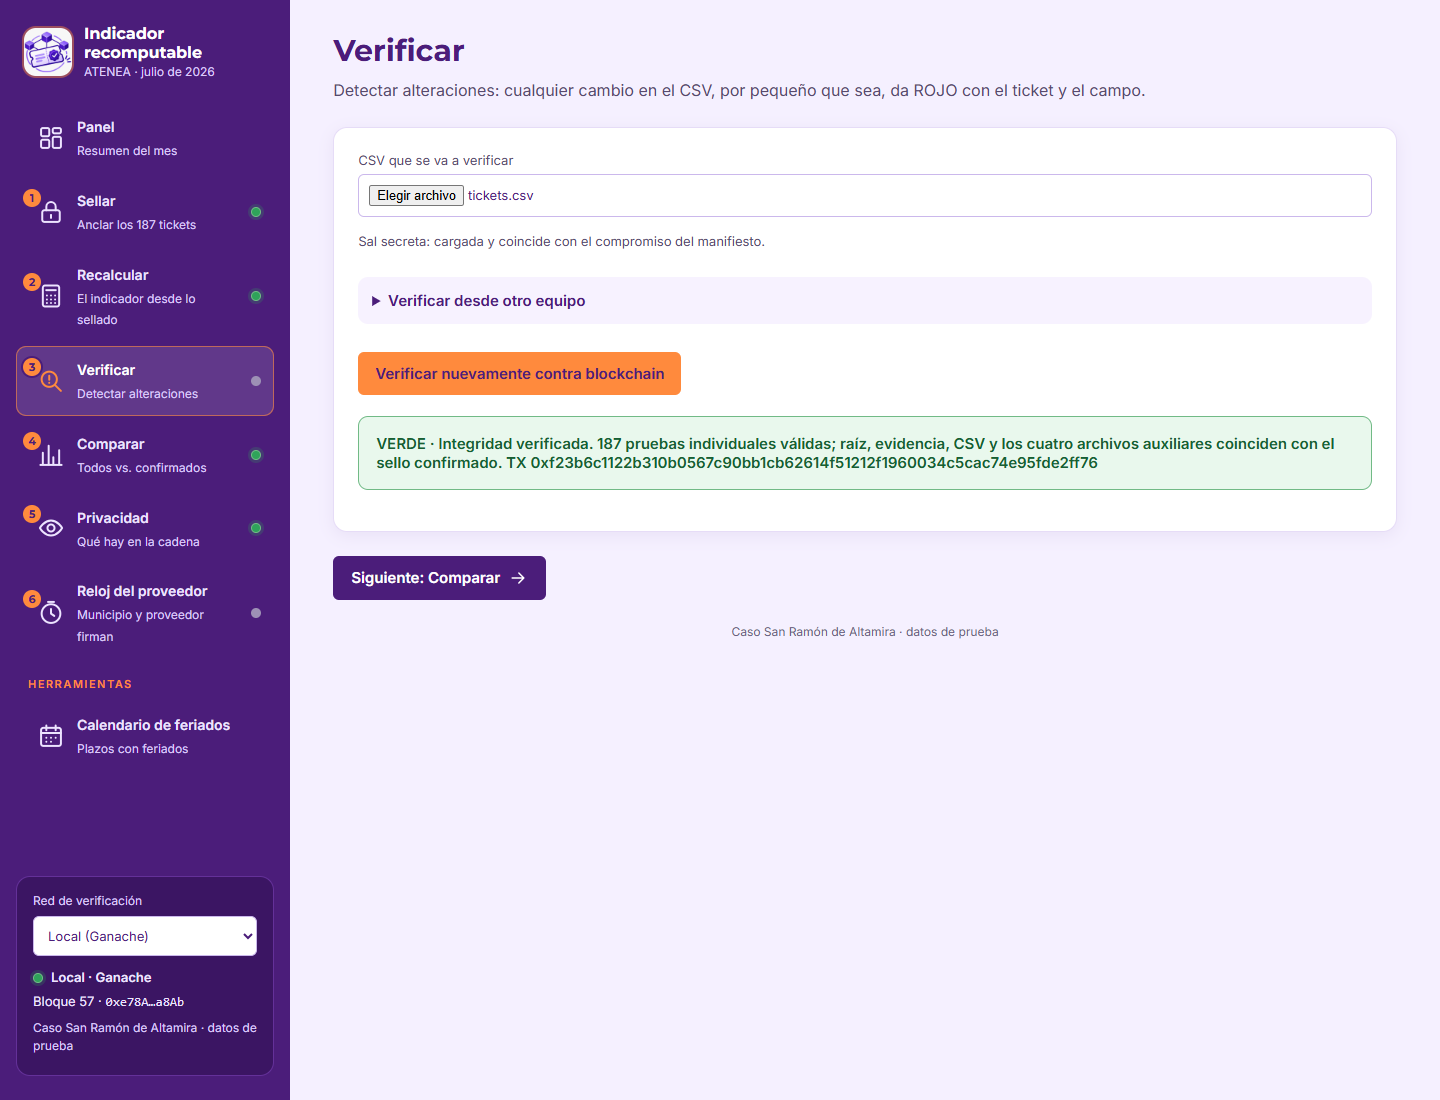
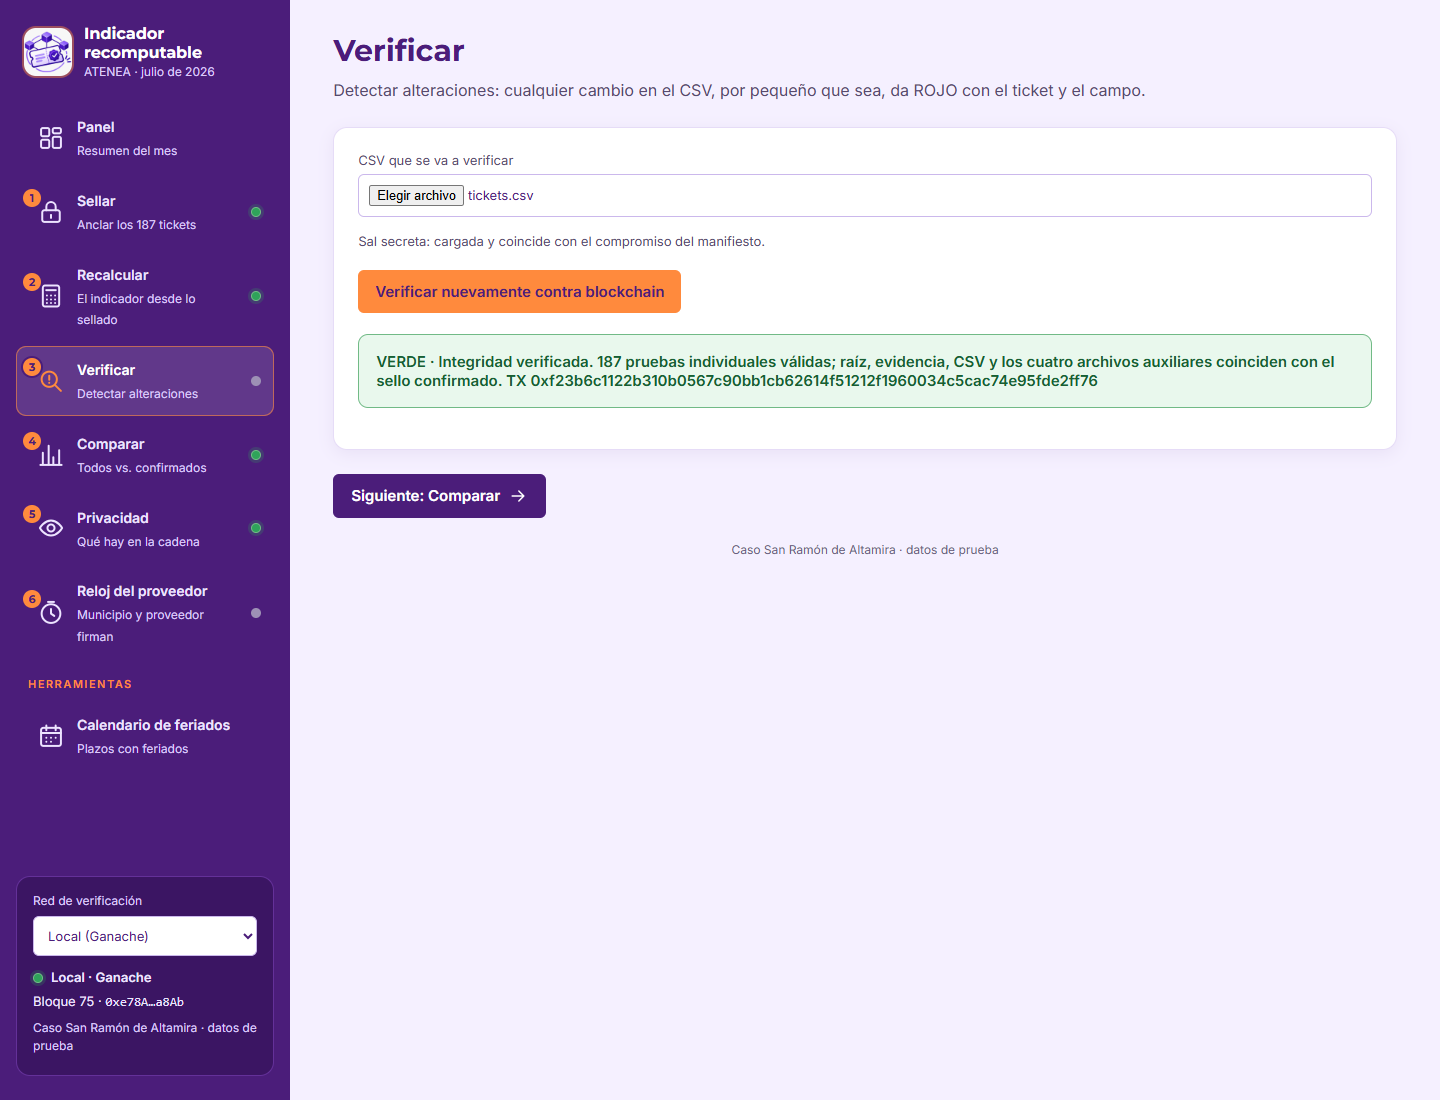
Fase 10: ajustes del profesor (Verificar sin importación y ancho en pantallas grandes)
- Verificar: se elimina «Verificar desde otro equipo» (importar evidencia y sal) y sus
  manejadores en app.mjs. Los mensajes de sal faltante indican copiar la carpeta .secreto/.
- README: sección «Verificar en otro equipo» (clonar el repo, copiar .secreto/ a mano,
  npm.cmd start). DEMO.md: contingencia actualizada.
- style.css: main centrado en su columna (margin-inline: auto) y max-width de 1240 a 1440 px.
  A 2560 px quedan márgenes iguales a ambos lados; en móvil (390 px) no hay scroll horizontal.
- audit.mjs y las pruebas no dependían de esa sección: sin cambios.
- npm test 62/62; verify:source 11/11; auditoría: Nivel 1 5/5, Nivel 2 APROBADO, Sepolia real APROBADO.

diff --git a/src/index.html b/src/index.html
@@ -117,7 +117,7 @@
     <div id="sealLinks" class="seal-links"></div>
     <button id="downloadSalt" type="button" class="secondary" hidden>Descargar sal secreta (respaldo)</button>
     <details><summary>Respaldo del sello</summary>
-      <p class="small">Copia del manifiesto con la huella de los 187 tickets. La app ya la guarda sola en este equipo; solo hace falta para verificar desde otro equipo.</p>
+      <p class="small">Copia del manifiesto con la huella de los 187 tickets. La app ya la guarda sola en evidencias/; es una copia de respaldo.</p>
       <button id="export" class="secondary" disabled>Descargar respaldo del sellado</button>
     </details>
     <details class="admin"><summary>Administración</summary>
@@ -162,10 +162,6 @@
   <div class="card">
     <div class="inputs"><label>CSV que se va a verificar<input id="verifyFile" type="file" accept=".csv"></label></div>
     <p id="saltStatus" class="small">Sal secreta: pendiente.</p>
-    <details><summary>Verificar desde otro equipo</summary>
-      <p class="small">En el equipo donde se selló, la evidencia y la sal se cargan solas. En otro equipo o navegador, impórtalas aquí.</p>
-      <div class="inputs"><label>Importar evidencia original (respaldo del sellado)<input id="evidenceFile" type="file" accept=".json"></label><label>Importar la sal secreta del sello<input id="saltFile" type="file" accept=".json,.txt"></label></div>
-    </details>
     <button id="verify">Verificar nuevamente contra blockchain</button>
     <div class="slot" data-slot="verification"></div>
     <div id="changes" aria-live="polite"></div>

diff --git a/src/style.css b/src/style.css
@@ -102,8 +102,10 @@ body { margin: 0; min-width: 0; }
 main {
   min-width: 0;
   padding: var(--space-6) clamp(var(--space-4), 3vw, 48px);
-  max-width: 1240px;
+  /* En monitores anchos el contenido se centra en su columna en vez de quedar pegado al menú. */
+  max-width: 1440px;
   width: 100%;
+  margin-inline: auto;
 }
 
 .topbar, .backdrop, .brand .close { display: none; }

diff --git a/README.md b/README.md
@@ -116,13 +116,15 @@ Opcional: con `SEPOLIA_MUNICIPIO=0x…` en el entorno del servidor, solo esa cue
 
 **Render y Sepolia:** en Render el disco no es persistente. Si se sella Sepolia desde Render, la sal (`.secreto/`) y la configuración se pierden al reiniciar el servicio: el sello sigue en Sepolia, pero ya nadie podría comprobar los tickets sin la sal. Por eso, para Sepolia, usar la app en la propia computadora y descargar siempre el respaldo de la sal.
 
+**Verificar en otro equipo:** clonar el repositorio (trae `evidencias/red-sepolia.json` y `evidencias/sello-sepolia.json`) y copiar desde el equipo que selló la carpeta **`.secreto/`** completa, con el archivo `sal-sepolia-<dirección del contrato>.json`, a la raíz del proyecto. Luego `npm.cmd ci` y `npm.cmd start`: el servidor entrega la sal a su propia página y Verificar da VERDE leyendo Sepolia por RPC público, sin MetaMask. Sin esa carpeta, la verificación queda INCOMPLETA a propósito. La carpeta se copia a mano (USB, carpeta compartida): no se sube a git ni a ningún servicio público.
+
 Sin internet, todo funciona igual en la red local. El reloj del proveedor usa siempre la red local.
 
 ## Delimitación
 
 - **En cadena**, solo el indicador público: quien emite el número es el mismo que se mide con él. Van período, raíz Merkle, compromiso, cantidad, fecha y hash de reglas.
 - **Fuera de cadena**: asignaciones, escalamientos, la bitácora y el contenido de los tickets. La operación interna se resuelve mejor con logs firmados. La bitácora y las reaperturas entran al sello solo por su SHA-256.
-- **Sal secreta del manifiesto**: `evidencias/sello-original.json` es público y guarda un hash por ticket y por campo. Sin sal, bastaría una lista de nombres para saber quién reportó cada ticket. Por eso cada sello usa una sal aleatoria de 32 bytes: entra en cada hash junto con el ID del ticket, y el manifiesto solo lleva su compromiso (`saltCommitment`). La sal nunca va en `evidencias/` ni en la cadena. En la red local vive en `.instances/<instancia>/secreto/sal-202607.json`; en Sepolia, en `.secreto/sal-sepolia-<dirección del contrato>.json`, un archivo por contrato. Las dos rutas están en `.gitignore`. Quien verifica necesita la sal: el servidor local se la entrega a su propia página, o se importa en la vista Verificar.
+- **Sal secreta del manifiesto**: `evidencias/sello-original.json` es público y guarda un hash por ticket y por campo. Sin sal, bastaría una lista de nombres para saber quién reportó cada ticket. Por eso cada sello usa una sal aleatoria de 32 bytes: entra en cada hash junto con el ID del ticket, y el manifiesto solo lleva su compromiso (`saltCommitment`). La sal nunca va en `evidencias/` ni en la cadena. En la red local vive en `.instances/<instancia>/secreto/sal-202607.json`; en Sepolia, en `.secreto/sal-sepolia-<dirección del contrato>.json`, un archivo por contrato. Las dos rutas están en `.gitignore`. Quien verifica necesita la sal: el servidor local se la entrega a su propia página.
 - **Reloj del proveedor (Nivel 2), implementado**: la segunda frontera de confianza. Dos organizaciones, un contrato y penalidades en dólares; cada parte firma con su llave.
 - **Lo que la cadena no hace**: no prueba que los datos fueran verdaderos antes de sellarlos ni mejora los tiempos de respuesta. En el reloj, registra lo que cada parte firma y rechaza lo imposible, pero no sabe si la hora firmada es la real.
 

diff --git a/docs/DEMO.md b/docs/DEMO.md
@@ -65,7 +65,7 @@ En pantallas de menos de 900 px el menú se abre con el botón «Menú» de la b
 - Si los 9 casos ya estaban cargados: «Cargar los 9 casos» no los repite; muestra cada paso «(ya estaba en la cadena)» y el contrato vuelve a rechazar PVT-04226.
 - Si falla el RPC: la interfaz no muestra indicadores acreditados (ERROR DE CONEXIÓN). Cambiar a la red local.
 - Las capturas de `evidencias/` son respaldo documental, no sustituyen la demostración en vivo.
-- Si se verifica desde otro navegador o equipo: importar en la vista Verificar el manifiesto (`sello-original.json`) y la sal secreta (`.instances/<instancia>/secreto/sal-202607.json`; con `npm.cmd start` la instancia es `nivel2-v1`, con `npm.cmd run demo` es la `demo-…` recién creada). Sin la sal el resultado es INCOMPLETA, a propósito.
+- Si se verifica desde otro equipo (Sepolia): copiar la carpeta `.secreto/` del equipo que selló a la raíz del proyecto y ejecutar `npm.cmd start` (ver README, «Verificar en otro equipo»). Otro navegador en el mismo equipo no necesita nada: el servidor entrega la sal. Sin la sal el resultado es INCOMPLETA, a propósito.
 
 ## Evidencia de la edición manual
 

diff --git a/docs/AUDITORIA.md b/docs/AUDITORIA.md
@@ -1,6 +1,6 @@
 # Auditoría Nivel 1 — Reto 03
 
-Ejecución UTC: 2026-11-13T03:46:55.374Z → 2026-11-13T03:48:27.321Z. Zona de presentación: America/Guayaquil.
+Ejecución UTC: 2026-11-14T04:46:58.811Z → 2026-11-14T04:48:57.027Z. Zona de presentación: America/Guayaquil.
 
 Resultado: **NIVEL 1 COMPLETO**.
 
@@ -67,7 +67,7 @@ Resultado: **NIVEL 2 COMPLETO**.
 - Navegación: 7 rutas con una sola vista visible, aria-current, atrás y adelante, estado de sello y verificación conservado entre vistas, guion con 5 pasos cumplidos: APROBADO.
 - Segundo sellado rechazado por EVM: APROBADO.
 - Simulación de feriado 2026-07-24: 4 tickets cambian de estado, sin tocar el sello: APROBADO.
-- Sepolia sin desplegar: la interfaz lo indica y no inventa un ancla: APROBADO (despliegue pendiente).
+- Sepolia: sello leído en solo lectura por RPC público: APROBADO.
 - RPC bloqueado: sin verde ni indicadores acreditados: APROBADO.
 - Proxy /rpc: rechaza evm_revert, evm_mine y transacciones fuera del contrato; deja pasar lecturas: APROBADO.
 - Recarga: se conserva la vista de la ruta (#/comparar): APROBADO.
